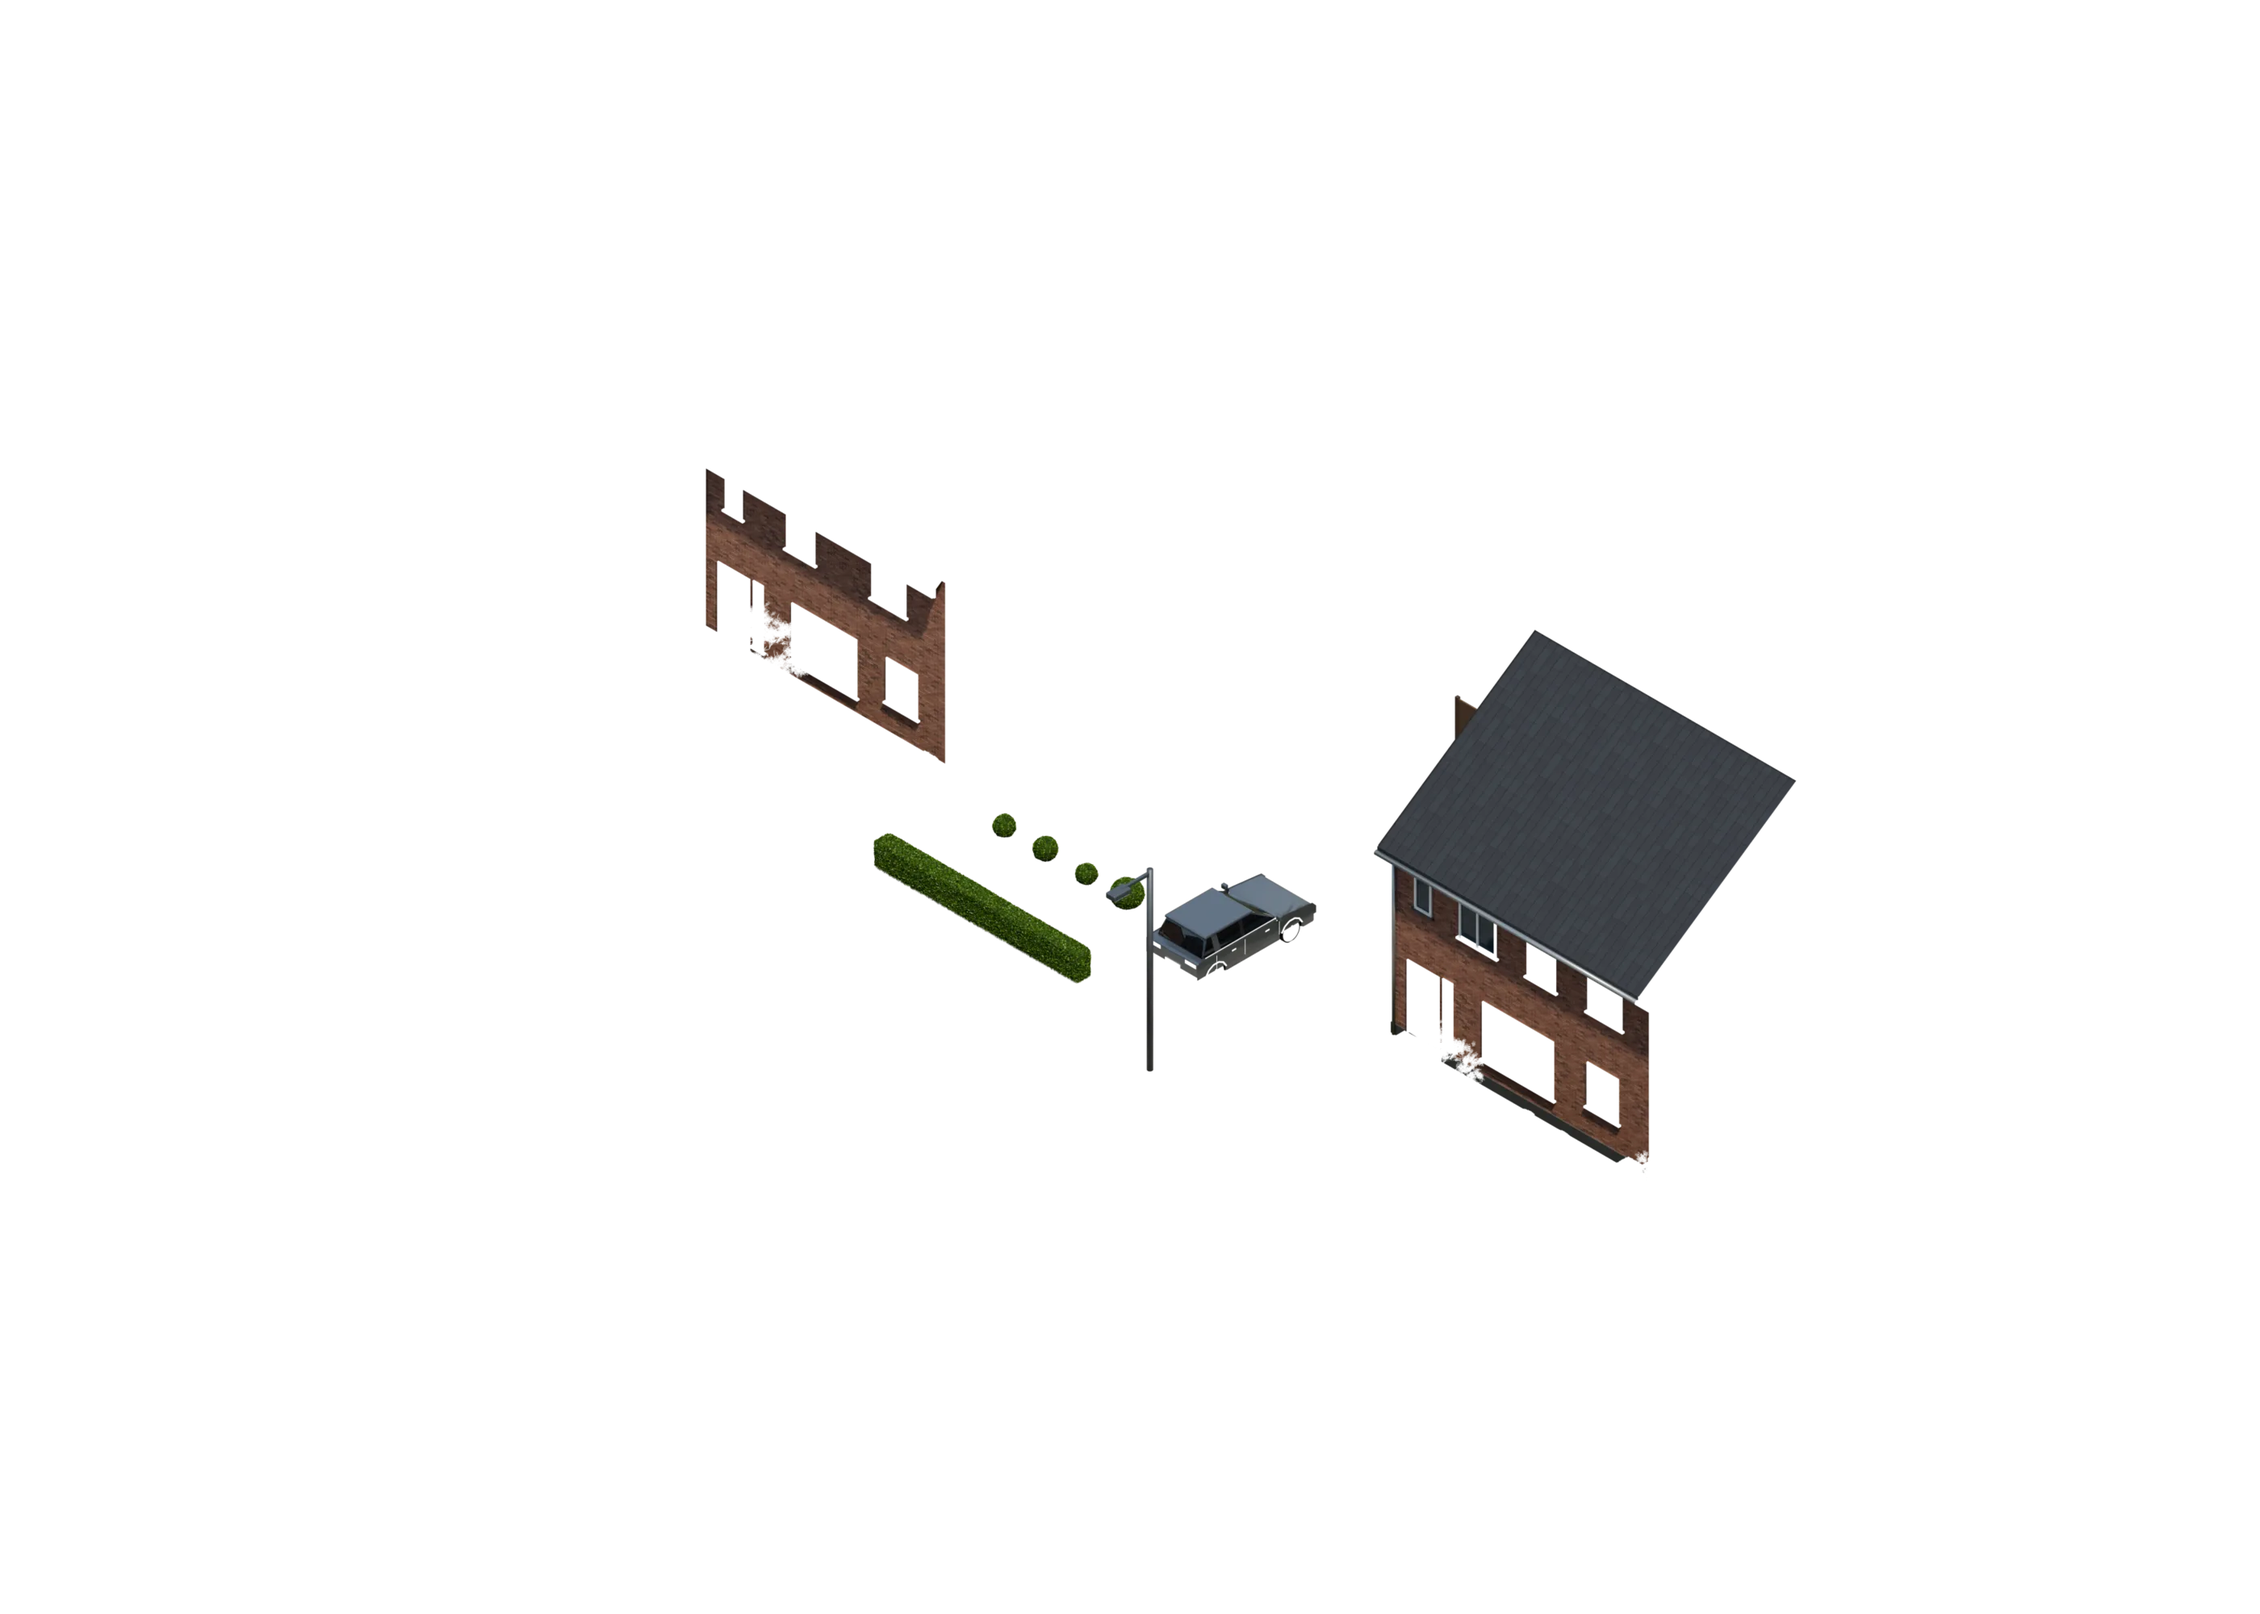
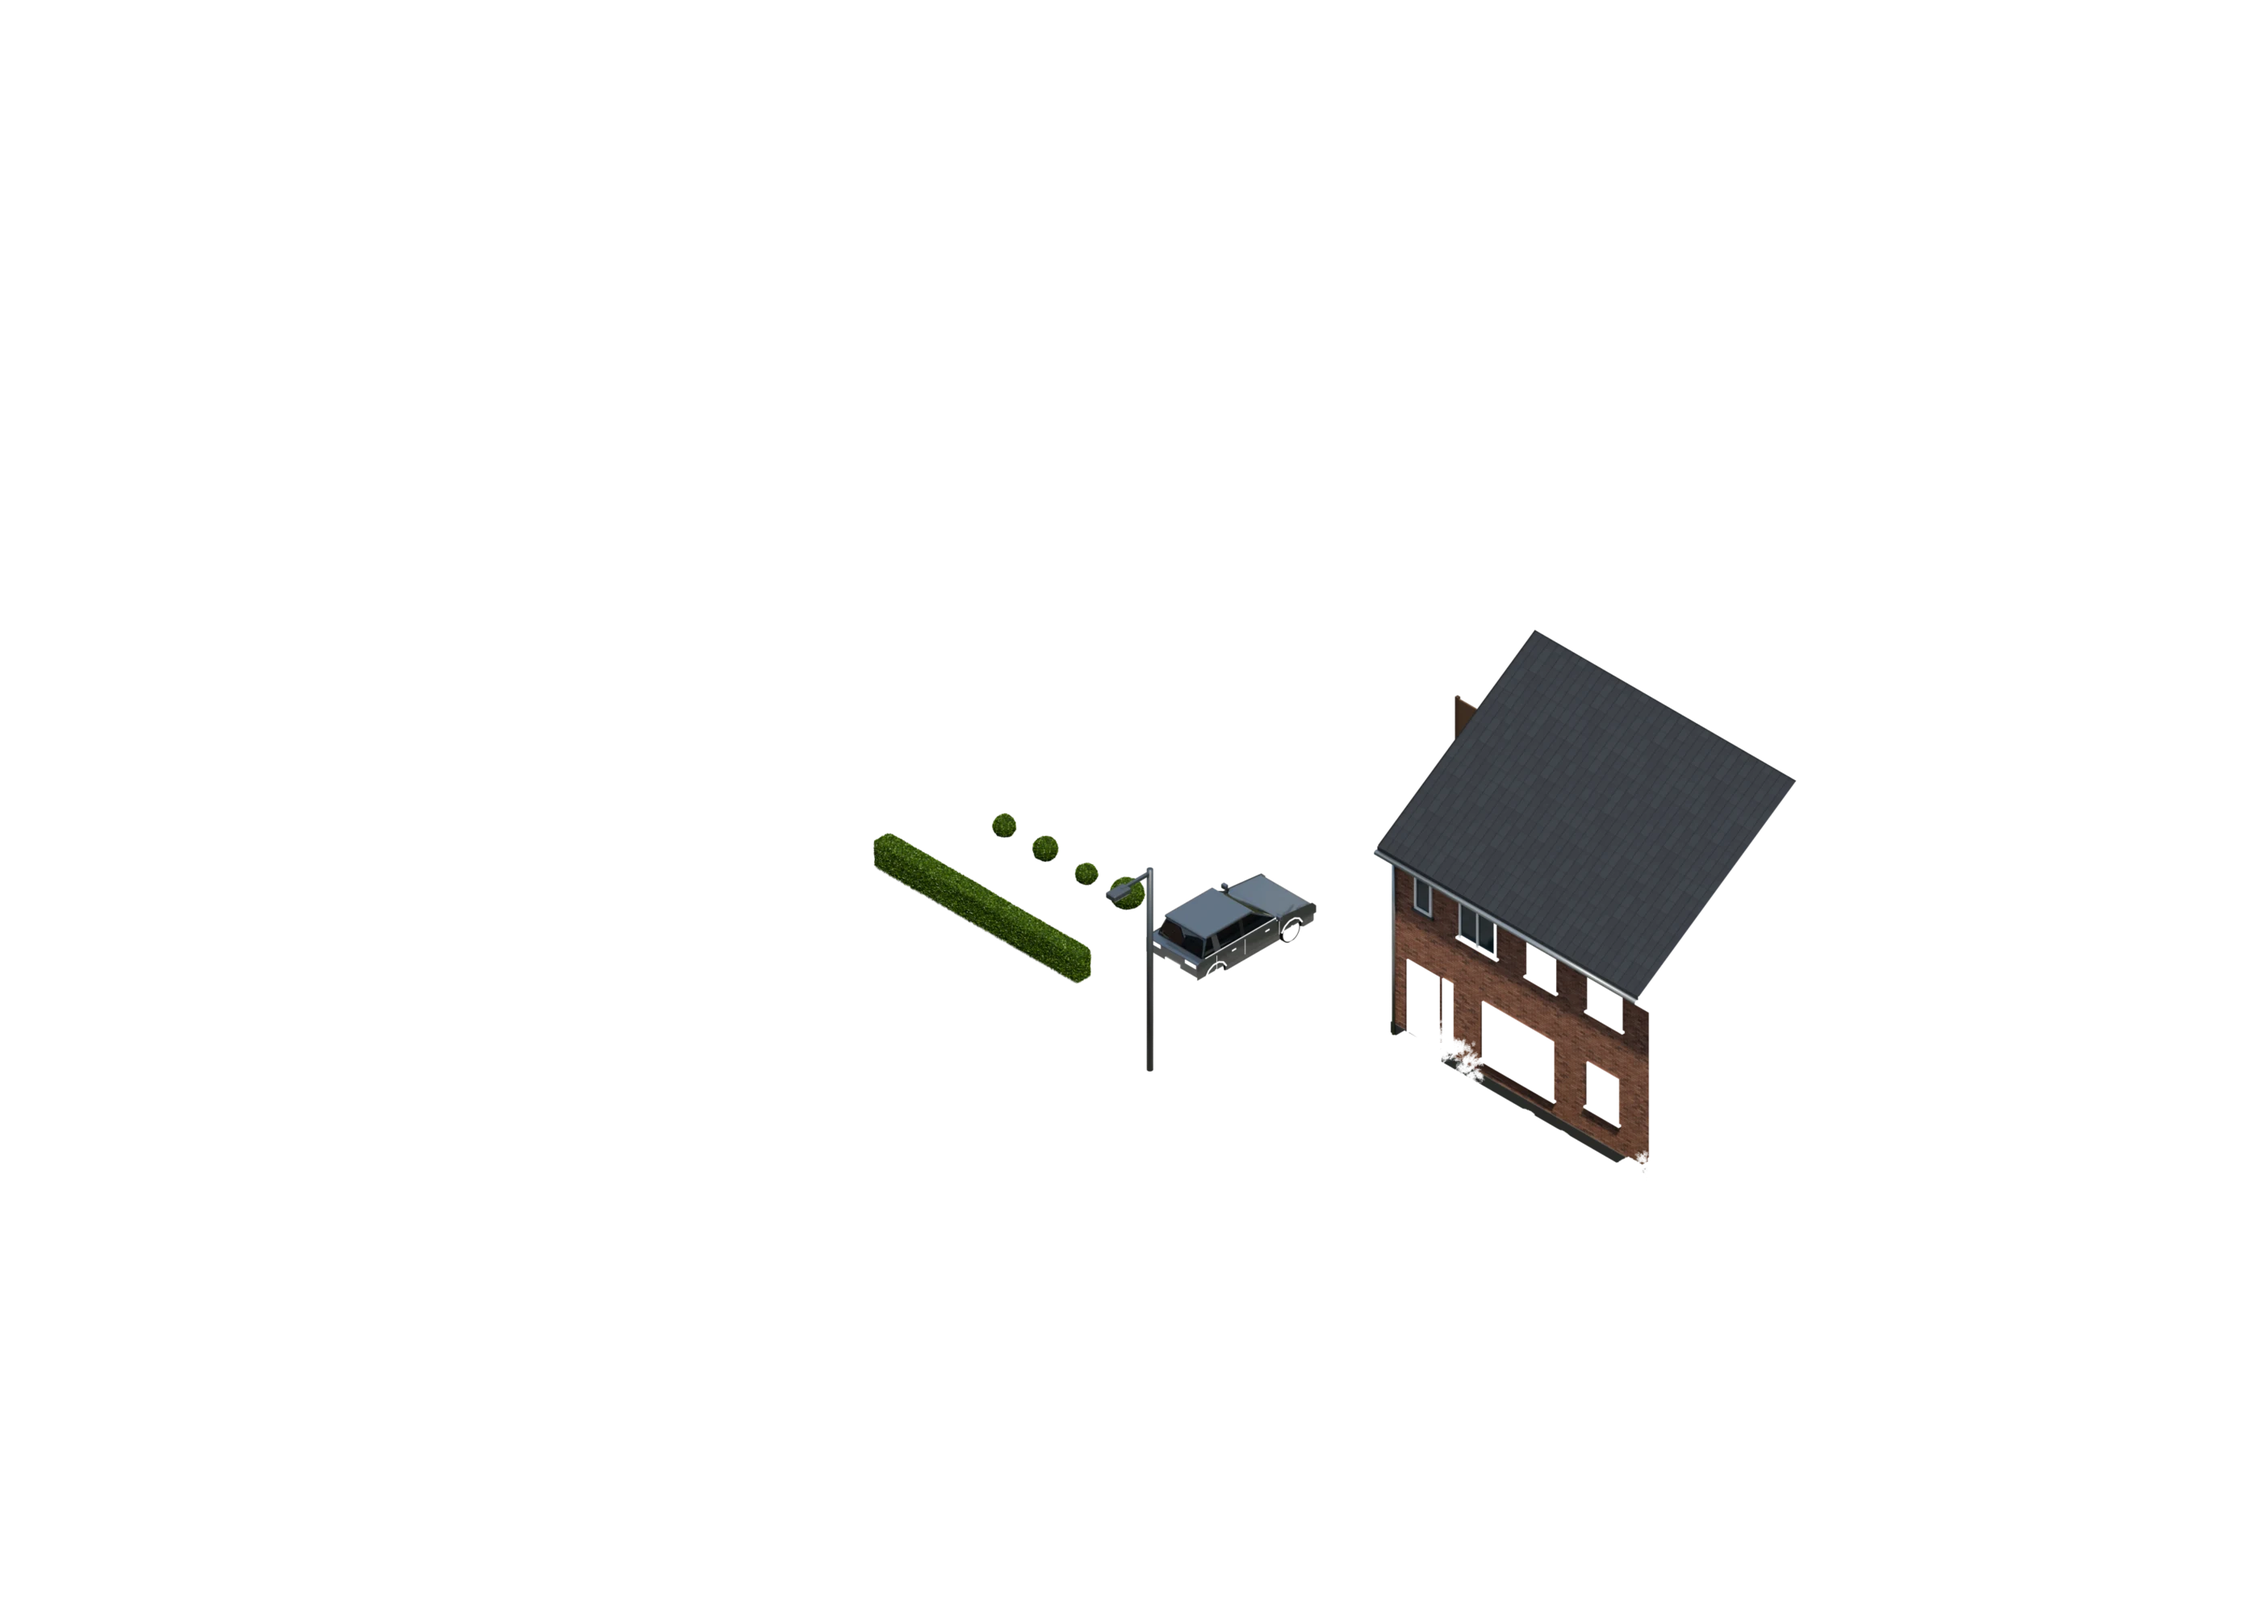
fix(droogsimulator): de buurgevel aan de gemene muur schilderde over de dakoversteek
De gevel van de buur ligt precies in het vlak van de voorgevel (z = F) en kwam
daardoor in de voorlaag van de straatrender. Die laag wordt zonder dieptetest
over de woning getekend, en legde zo een strook baksteen over de oversteek van
het live dak: de goot leek een muurdikte later te beginnen. Wat helemaal links
van de woning staat, kan nooit vóór haar staan (de camera kijkt van +x) en
blijft nu in de achterlaag.

Halfopen b80 opnieuw gerenderd; de andere breedtes volgen.

Changed region(s): [[0.3107, 0.279, 0.435, 0.465]]

diff --git a/scripts/simulator-3d/straat.py b/scripts/simulator-3d/straat.py
@@ -1382,6 +1382,13 @@ def sorteer_voor():
         ys = [p.z for p in pts]
         if max(ys) < 0.3:
             continue
+        # Helemaal links van de woning (x <= -T) kan nooit vóór haar staan: de camera kijkt
+        # van +x, dus elke kijkstraal vanaf zo'n object gaat de woning in of erlangs, nooit
+        # ervoor. De gevel van de buur aan de gemene muur ligt precies in het vlak van de
+        # voorgevel (z = F) en kwam door de test hieronder in de voorlaag; daar schilderde
+        # hij een strook baksteen over de oversteek van het live dak.
+        if max(xs) < -T + 0.01:
+            continue
         # Met marge: een buur die precies tegen de zijgevel staat begint op x = W + T. Met
         # een strikte vergelijking viel zijn dak in de achterlaag en zijn puntgevel in de
         # voorlaag, en stak er een driehoek baksteen door het dak van de woning.
